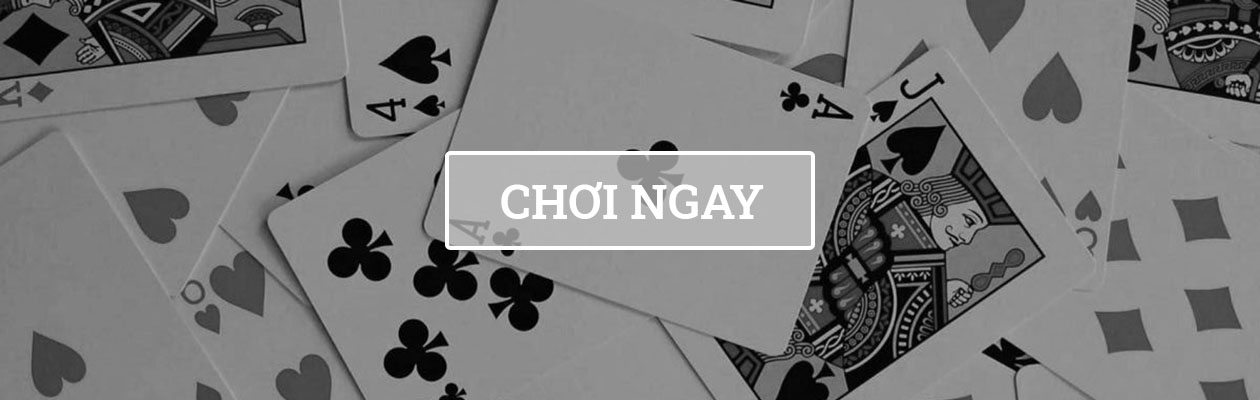
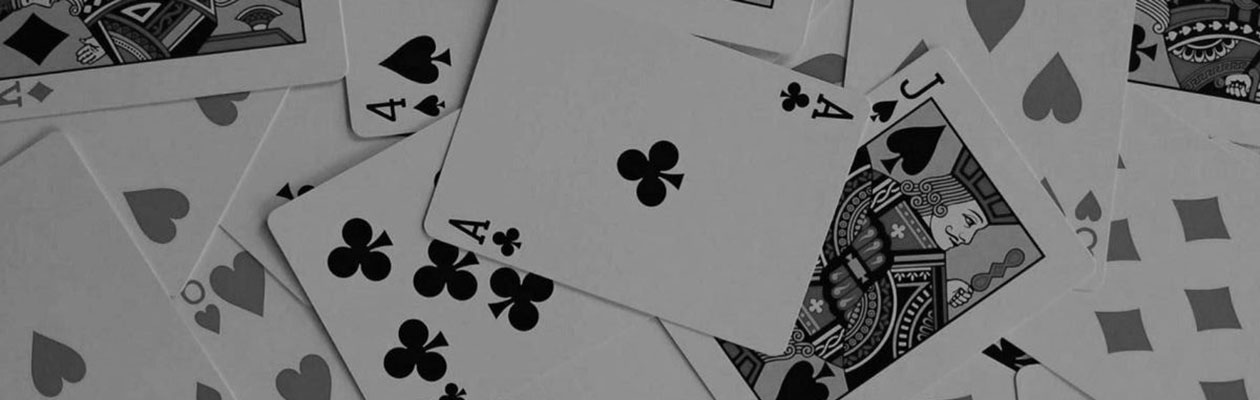
update index.ejs

Changed region(s): [[0.3405, 0.36, 0.65, 0.63]]

diff --git a/public/style.css b/public/style.css
@@ -109,7 +109,7 @@ footer{
   text-align: center;
   vertical-align: middle;
   line-height: 44px;
-  background: url('/images/buttonStock1.png') no-repeat;
+  /* background: url('/images/buttonStock1.png') no-repeat; */
   background-position: center center; 
   background-size: 100% 100%;
   border: none;
